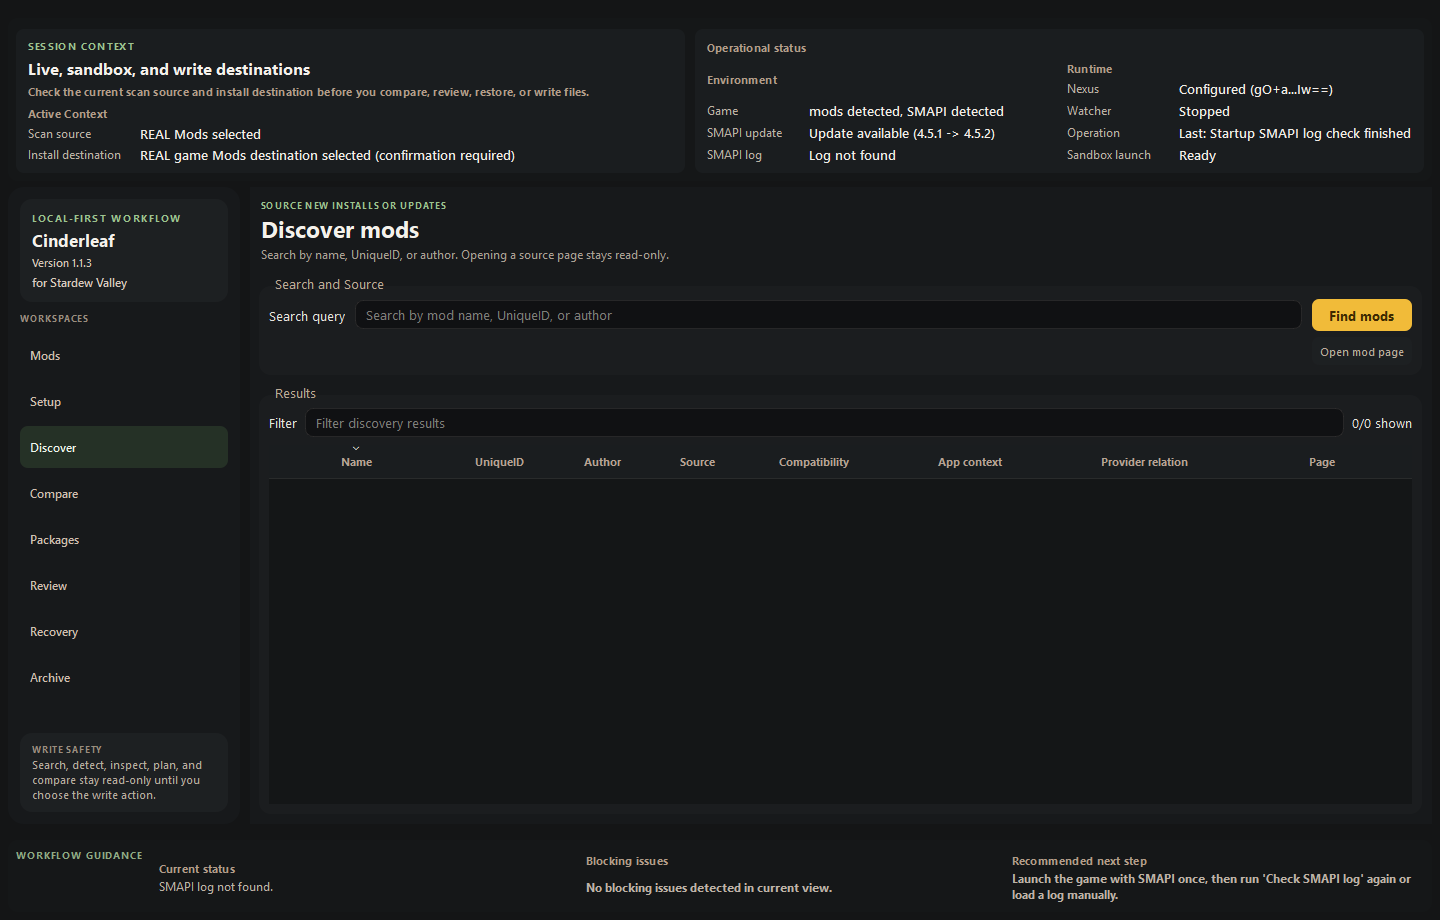
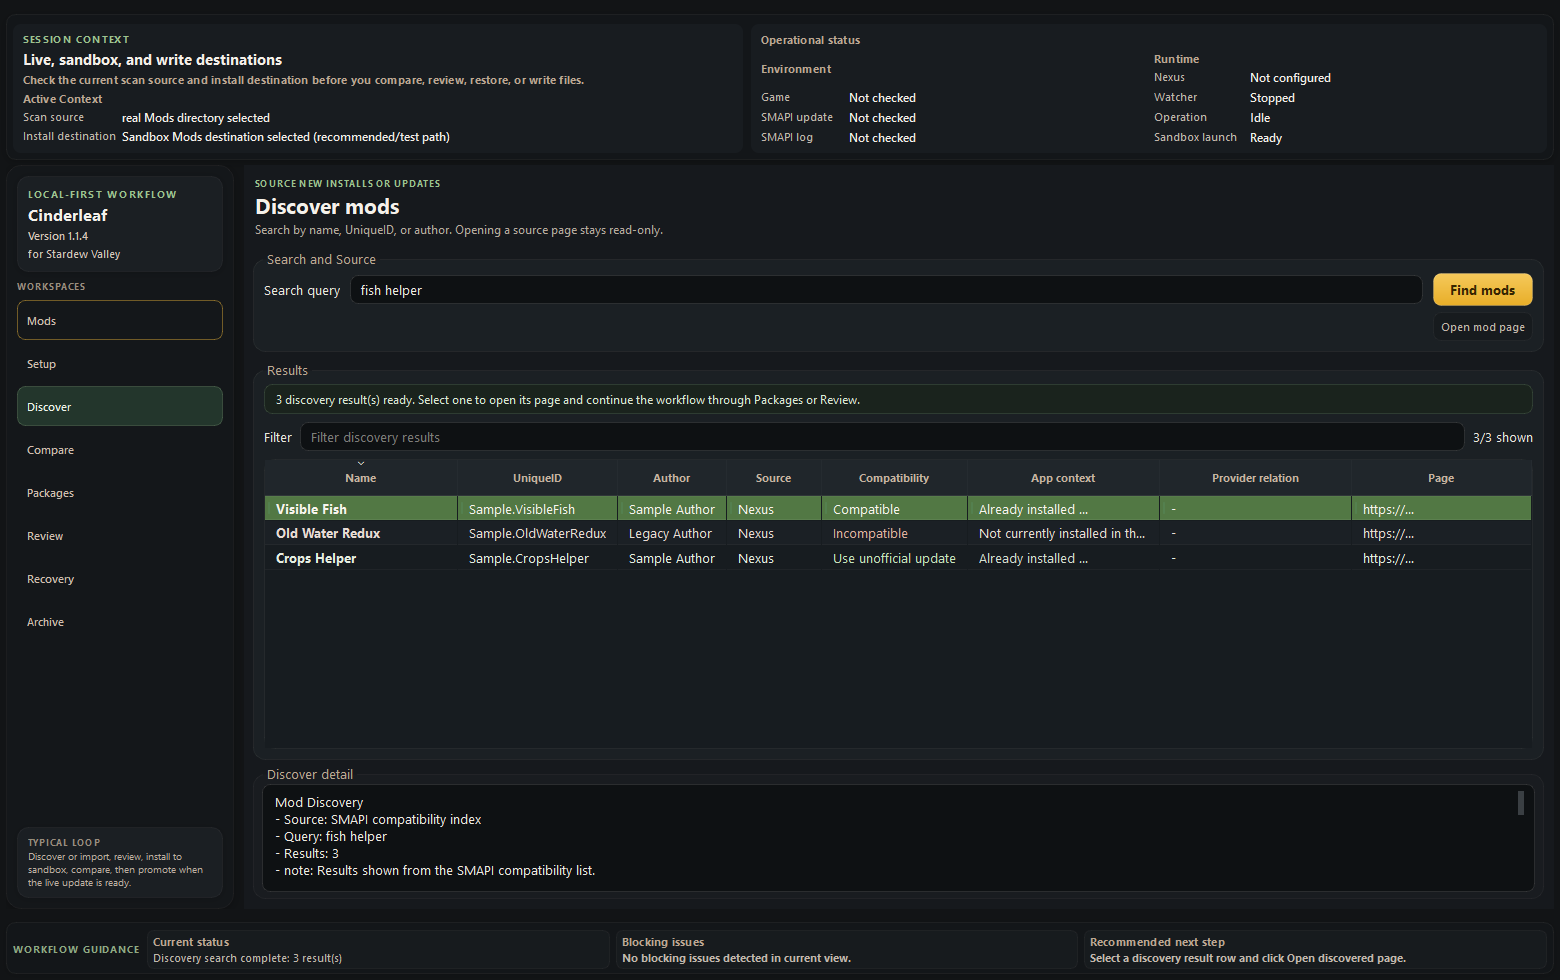
build(release): prepare 1.1.4

diff --git a/tests/unit/test_app_main.py b/tests/unit/test_app_main.py
@@ -15,12 +15,12 @@ def test_resolve_app_version_prefers_runtime_version_file(
 ) -> None:
     runtime_root = tmp_path / "runtime"
     runtime_root.mkdir()
-    (runtime_root / "app-version.txt").write_text("1.1.3\n", encoding="utf-8")
+    (runtime_root / "app-version.txt").write_text("1.1.4\n", encoding="utf-8")
 
     monkeypatch.setattr(app_main, "_resolve_runtime_root", lambda: runtime_root)
     monkeypatch.setattr(app_main, "version", lambda _name: "0.2.1")
 
-    assert app_main._resolve_app_version() == "1.1.3"
+    assert app_main._resolve_app_version() == "1.1.4"
 
 
 def test_resolve_app_version_prefers_pyproject_for_source_runs(
@@ -33,7 +33,7 @@ def test_resolve_app_version_prefers_pyproject_for_source_runs(
         """
 [project]
 name = "stardew-mod-manager"
-version = "1.1.3"
+version = "1.1.4"
 """.strip(),
         encoding="utf-8",
     )
@@ -41,7 +41,7 @@ version = "1.1.3"
     monkeypatch.setattr(app_main, "_resolve_runtime_root", lambda: runtime_root)
     monkeypatch.setattr(app_main, "version", lambda _name: "0.2.1")
 
-    assert app_main._resolve_app_version() == "1.1.3"
+    assert app_main._resolve_app_version() == "1.1.4"
 
 
 def test_resolve_ui_app_version_prefers_qapplication_version(
@@ -51,10 +51,10 @@ def test_resolve_ui_app_version_prefers_qapplication_version(
     if app is None:
         app = QApplication([])
     original_version = app.applicationVersion()
-    app.setApplicationVersion("1.1.3")
+    app.setApplicationVersion("1.1.4")
     try:
         monkeypatch.setattr(main_window, "package_version", lambda _name: "0.2.1")
         monkeypatch.setattr(main_window.Path, "cwd", lambda: Path(r"C:\no-pyproject-here"))
-        assert main_window._resolve_ui_app_version() == "1.1.3"
+        assert main_window._resolve_ui_app_version() == "1.1.4"
     finally:
         app.setApplicationVersion(original_version)

diff --git a/tests/unit/test_main_window_gui_regression.py b/tests/unit/test_main_window_gui_regression.py
@@ -524,7 +524,7 @@ def test_main_window_uses_custom_workspace_nav_rail_with_hidden_tab_bar(
     assert setup_button.property("navRole") == "workspace"
     assert review_button.property("navRole") == "workspace"
     assert brand_title.text() == "Cinderleaf"
-    assert brand_version.text() == "Version 1.1.3"
+    assert brand_version.text() == "Version 1.1.4"
 
 
 def test_main_window_workspace_nav_buttons_drive_context_pages(

diff --git a/README.md b/README.md
@@ -4,7 +4,7 @@
 
 `for Stardew Valley` is a descriptive subtitle, not an official affiliation. Cinderleaf is an independent community tool and is not affiliated with or endorsed by ConcernedApe.
 
-Current stable portable release: **1.1.3**
+Current release candidate prepared in this branch: **1.1.4**
 
 ## Why use it
 
@@ -33,9 +33,11 @@ Current stable portable release: **1.1.3**
 The supported public build is a Windows portable zip published to GitHub Releases.
 
 1. Open the repository's GitHub Releases page.
-2. Download `cinderleaf-1.1.3-windows-portable.zip`.
+2. When the `1.1.4` GitHub Release is published, download `cinderleaf-1.1.4-windows-portable.zip`.
 3. Extract it to a normal folder.
 4. Run `Cinderleaf.exe`.
+
+If a checksum file is published with the release, verify `cinderleaf-1.1.4-windows-portable.zip.sha256` before announcing or mirroring the build.
 
 Current release caveats:
 
@@ -68,7 +70,9 @@ py -3.12 -m venv .venv
 The build script produces:
 
 ```text
-dist\cinderleaf-1.1.3-windows-portable\
+dist\cinderleaf-1.1.4-windows-portable\
+dist\cinderleaf-1.1.4-windows-portable.zip
+dist\cinderleaf-1.1.4-windows-portable.zip.sha256
 ```
 
 ## Current limitations

diff --git a/CHANGELOG.md b/CHANGELOG.md
@@ -2,6 +2,15 @@
 
 All notable user-facing changes for this repository are tracked here.
 
+## [1.1.4]
+
+- Tightened shell chrome and improved workflow emphasis so the main mod workflow reads more clearly than Setup-heavy earlier builds.
+- Refined Setup into a lighter configuration surface with backup and restore tools kept visible but visually secondary.
+- Improved workflow-page clarity across Mods, Packages, Review, Discover, Compare, and Archive with better idle, active, and next-step guidance.
+- Polished action hierarchy, row selection, disabled states, and local interaction feedback across the core workflow surfaces.
+- Hardened the Windows portable package with aligned EXE metadata, removed stale bundled package metadata, and added SHA256 checksum output for the release zip.
+- Shipped as a UX, packaging-trust, and release-surface polish update with no workflow-semantics change.
+
 ## [1.1.3]
 
 - Fixed the restore/import planning regression where the released UI passed an unsupported `steam_auto_start_enabled` argument into restore/import planning.
